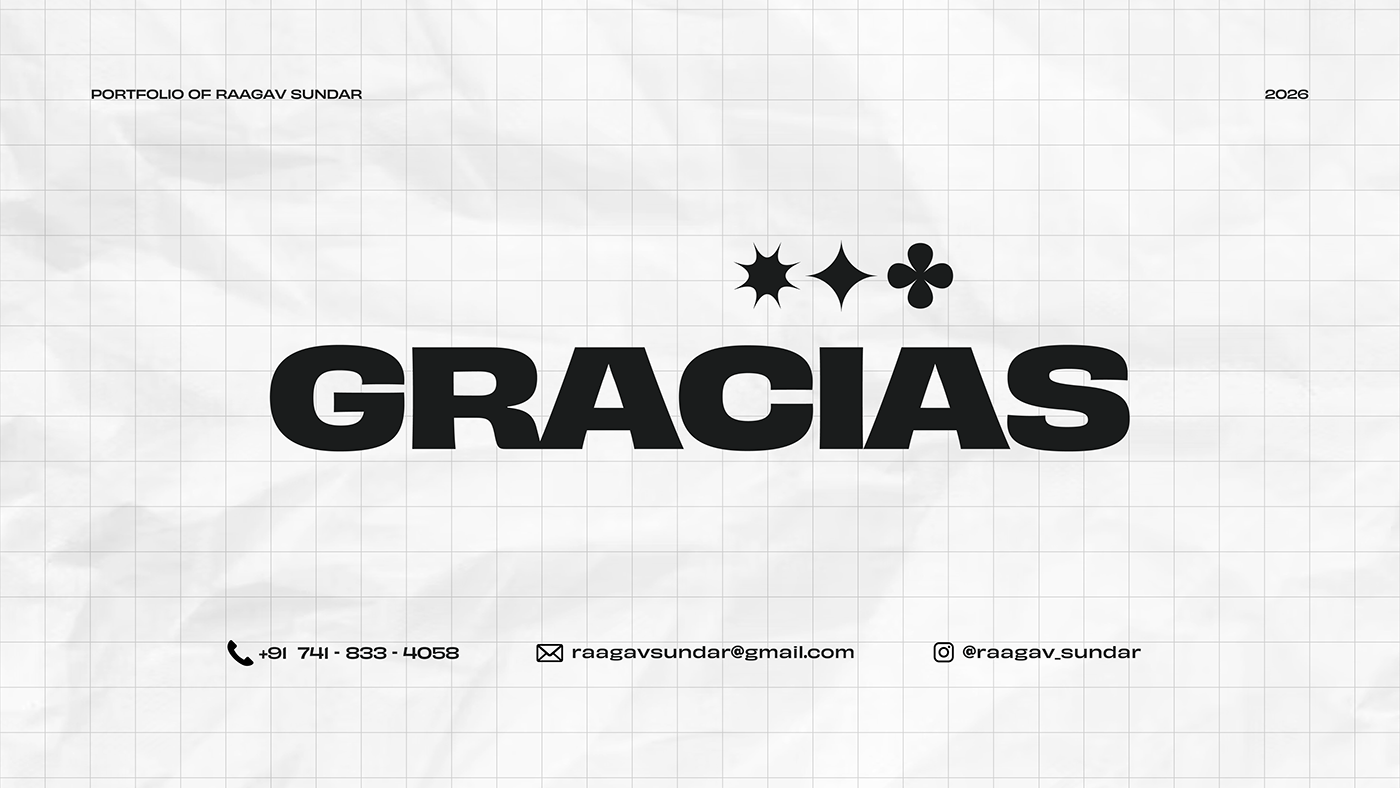
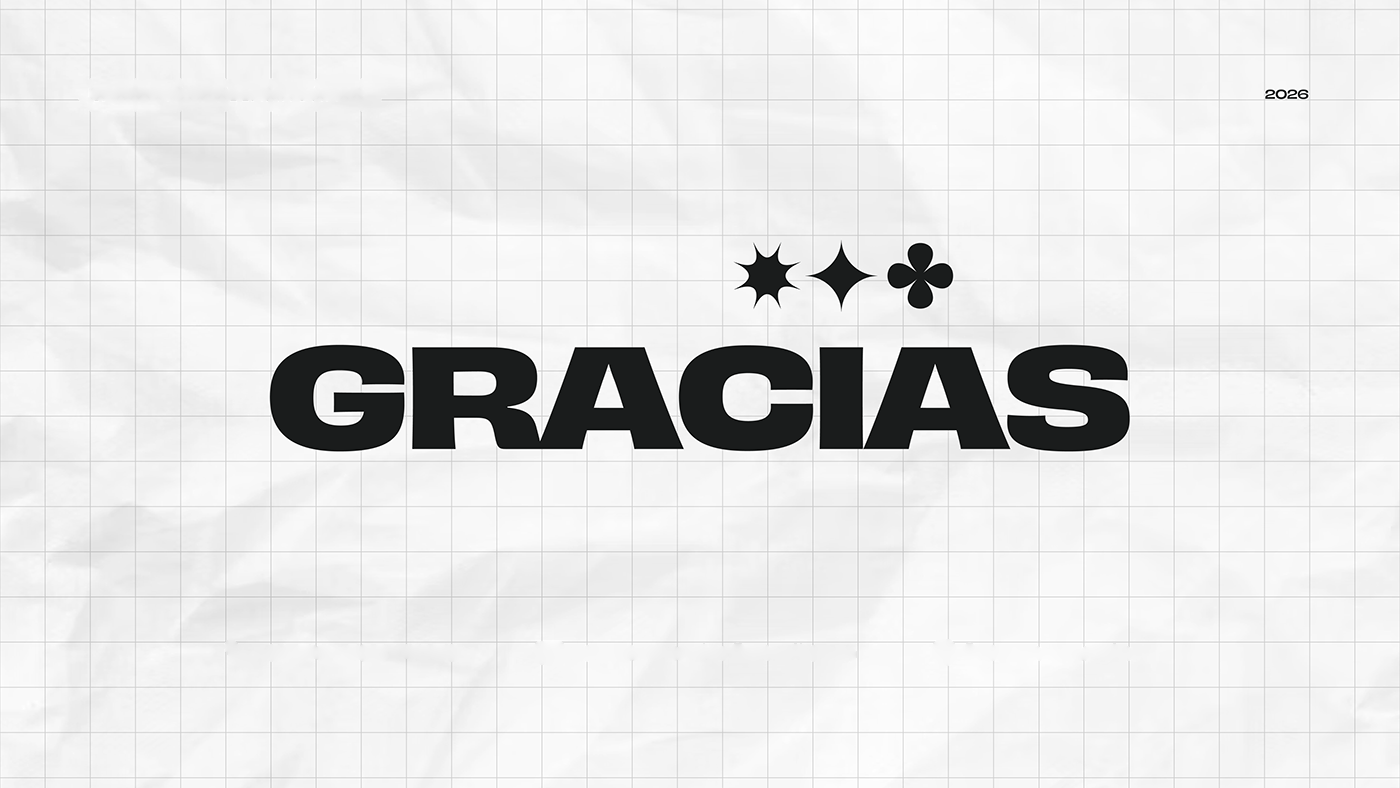
GRACIAS Page updated with Contact details

diff --git a/css/styles.css b/css/styles.css
@@ -315,6 +315,112 @@ button{ font:inherit; color:inherit; border:0; background:none; cursor:pointer }
   pointer-events:none;
 }
 
+/* --------------------------------------------------------- THANKS SLIDE
+   Module type "thanks" (final page). The GRACIAS plate is raster art,
+   but the header and the contact row are live HTML over it so the
+   links work and the text stays selectable. Same container-query trick
+   as the about slide: `--u` is one design pixel, so the whole block
+   scales like an image. Coordinates come straight off the plate.
+   -------------------------------------------------------------------- */
+.module[data-type="thanks"]{ container-type:inline-size }
+
+.thanks{
+  --u:1px;
+  position:relative;
+  width:100%;
+  aspect-ratio:1400/788;
+  overflow:hidden;
+  color:#151717;
+  font-family:Helvetica,Arial,"Helvetica Neue",sans-serif;
+}
+@supports (container-type:inline-size){
+  .thanks{ --u:calc(100cqw / 1400) }
+}
+
+.thanks__img{
+  display:block;
+  width:100%;
+  height:100%;
+  object-fit:cover;
+}
+
+/* --- header: same spot, weight and tracking as the plate's own rule */
+/* the plate's rule is a black grotesque — measured ink density 0.42,
+   which Arial Black matches exactly (Helvetica Bold only reaches 0.29). */
+.thanks__hd{
+  position:absolute;
+  left:calc(92 * var(--u));
+  top:calc(89 * var(--u));
+  margin:0;
+  font-family:"Arial Black","Archivo Black","Helvetica Neue",Arial,sans-serif;
+  font-size:calc(11.5 * var(--u));
+  line-height:1;
+  font-weight:900;
+  letter-spacing:calc(2.4 * var(--u));
+  white-space:nowrap;
+}
+
+/* --- contact row: one line, optically centred on the plate ---------- */
+.thanks__row{
+  position:absolute;
+  left:0; right:0;
+  top:calc(636 * var(--u));
+  display:flex;
+  flex-wrap:nowrap;
+  justify-content:center;
+  align-items:center;
+  gap:calc(78 * var(--u));
+}
+.thanks__item{
+  display:inline-flex;
+  align-items:center;
+  gap:calc(9 * var(--u));
+  color:#151717;
+  text-decoration:none;
+  font-size:calc(16.5 * var(--u));
+  line-height:1;
+  font-weight:700;
+  letter-spacing:calc(2.8 * var(--u));
+  white-space:nowrap;
+  user-select:text;
+  -webkit-user-select:text;
+}
+.thanks__txt{ display:inline-block }
+.thanks__ico{
+  display:inline-flex;
+  flex:0 0 auto;
+  width:calc(22 * var(--u));
+  height:calc(22 * var(--u));
+}
+/* each mark carries its own optical size on the plate: the handset is
+   26x26, the envelope 26x18, the squares 20x20. The handset's path sits
+   inset in its viewBox, so its box is oversized and pulled back to keep
+   the icon-to-label gap equal to the other three. */
+.thanks__ico--phone{
+  width:calc(34 * var(--u));
+  height:calc(34 * var(--u));
+  margin-right:calc(-4 * var(--u));
+}
+.thanks__ico--mail{ width:calc(26 * var(--u)); height:calc(18 * var(--u)) }
+.thanks__ico svg{
+  display:block;
+  width:100%; height:100%;
+  fill:none;
+  stroke:currentColor;
+  stroke-width:1.9;
+  stroke-linecap:round;
+  stroke-linejoin:round;
+}
+/* the handset is solid on the plate; the rest are outlines */
+.thanks__ico .solid,
+.thanks__ico .dot{ fill:currentColor; stroke:none }
+
+.thanks__item:hover{ color:#b8242b }
+.thanks__item:focus-visible{
+  outline:calc(2 * var(--u)) solid #b8242b;
+  outline-offset:calc(4 * var(--u));
+}
+
 /* --------------------------------------------------------- VIDEO GRID
    Module type "videogrid" (page 8) — six tiles in a fixed bento shape.
    Same container-query trick as the about slide: `--u` is one design

diff --git a/js/app.js b/js/app.js
@@ -584,6 +584,78 @@
     return sec;
   }
 
+  /* ---------------------------------------------------------------- *
+   * Closing slide. The GRACIAS plate stays raster art — its display
+   * type is a bespoke condensed face a web font cannot reproduce — but
+   * the header and the contact row are live HTML laid over it, so the
+   * links are real anchors and the text stays selectable.
+   * ---------------------------------------------------------------- */
+  var ICONS = {
+    phone: '<svg viewBox="0 0 24 24" aria-hidden="true">' +
+           '<path class="solid" d="M6.62 10.79a15.05 15.05 0 0 0 6.59 6.59l2.2-2.2a1 1 0 0 1 1.02-.24 11.36 11.36 0 0 0 3.57.57 1 1 0 0 1 1 1V20a1 1 0 0 1-1 1A17 17 0 0 1 3 4a1 1 0 0 1 1-1h3.5a1 1 0 0 1 1 1c0 1.25.2 2.45.57 3.57a1 1 0 0 1-.25 1.02l-2.2 2.2Z"/></svg>',
+    mail:   '<svg viewBox="0 0 26 18" aria-hidden="true">' +
+            '<rect x="1" y="1" width="24" height="16" rx="1.4"/>' +
+            '<path d="m1.7 1.9 11.3 8.3 11.3-8.3"/></svg>',
+    ig:     '<svg viewBox="0 0 24 24" aria-hidden="true">' +
+            '<rect x="2.5" y="2.5" width="19" height="19" rx="5.4"/>' +
+            '<circle cx="12" cy="12" r="4.5"/>' +
+            '<circle class="dot" cx="17.5" cy="6.5" r="1.2"/></svg>',
+    li:     '<svg viewBox="0 0 24 24" aria-hidden="true">' +
+            '<rect x="2.5" y="2.5" width="19" height="19" rx="5.4"/>' +
+            '<circle class="dot" cx="7.5" cy="7.9" r="1.2"/>' +
+            '<path d="M7.5 11.2v5.6"/>' +
+            '<path d="M11.6 16.8v-5.6m0 1.9c.42-1.28 1.5-2.1 2.8-2.1 1.7 0 2.7 1.15 2.7 3.05v2.75"/></svg>'
+  };
+
+  function renderThanks(m) {
+    var root = document.createElement('div');
+    root.className = 'thanks';
+
+    var pic = document.createElement('img');
+    pic.className = 'thanks__img';
+    pic.alt = m.alt || '';
+    pic.decoding = 'async';
+    pic.dataset.cdn = m.src;
+    pic.src = m.src;
+    if (S.media && S.media.preferLocal) {
+      var probe = new Image();
+      probe.onload = function () { pic.src = probe.src; };
+      probe.src = localPath(m.src);
+    }
+    root.appendChild(pic);
+
+    var hd = document.createElement('p');
+    hd.className = 'thanks__hd';
+    hd.textContent = m.portfolio || '';
+    root.appendChild(hd);
+
+    var row = document.createElement('nav');
+    row.className = 'thanks__row';
+    row.setAttribute('aria-label', 'Contact');
+    (m.contacts || []).forEach(function (c) {
+      var a = document.createElement('a');
+      a.className = 'thanks__item';
+      a.href = c.href;
+      if (/^https?:/i.test(c.href)) { a.target = '_blank'; a.rel = 'noopener noreferrer'; }
+
+      var ic = document.createElement('span');
+      ic.className = 'thanks__ico';
+      ic.classList.add('thanks__ico--' + c.kind);
+      ic.innerHTML = ICONS[c.kind] || '';
+      a.appendChild(ic);
+
+      var t = document.createElement('span');
+      t.className = 'thanks__txt';
+      t.textContent = c.label;
+      a.appendChild(t);
+
+      row.appendChild(a);
+    });
+    root.appendChild(row);
+
+    return wrap(m, root);
+  }
+
   var RENDER = {
     image: renderImage,
     collection: renderCollection,
@@ -591,6 +663,7 @@
     embed: renderEmbed,
     about: renderAbout,
     videogrid: renderVideoGrid,
+    thanks: renderThanks,
   };
 
   /* ---------------------------------------------------------------- *

diff --git a/content.js b/content.js
@@ -195,12 +195,19 @@ const CONTENT = {
     },
     {
       "n": 20,
-      "type": "image",
+      "type": "thanks",
       "src": "assets/pics&gifs/20.png",
       "w": 1400,
       "h": 788,
-      "caption": "",
-      "alt": "GRAPHIC DESIGN PORTFOLIO 2026 — image 20"
+      "portfolio": "PORTFOLIO OF HARSHITH SRIRAMOJU",
+      "year": "2026",
+      "alt": "GRACIAS — thank you for viewing",
+      "contacts": [
+        { "kind": "phone", "label": "+91 832 - 827 - 5189",       "href": "tel:+918328275189" },
+        { "kind": "mail",  "label": "sahxoharshith@gmail.com",    "href": "mailto:sahxoharshith@gmail.com" },
+        { "kind": "ig",    "label": "@sahxo_edits",               "href": "https://www.instagram.com/sahxo_edits?xtok=Y3VibXc5cDI1OHg2" },
+        { "kind": "li",    "label": "Harshith Sriramoju",         "href": "https://www.linkedin.com/in/harshith-sriramoju-b78143387?utm_source=share_via&utm_content=profile&utm_medium=member_android" }
+      ]
     }
   ]
 };
